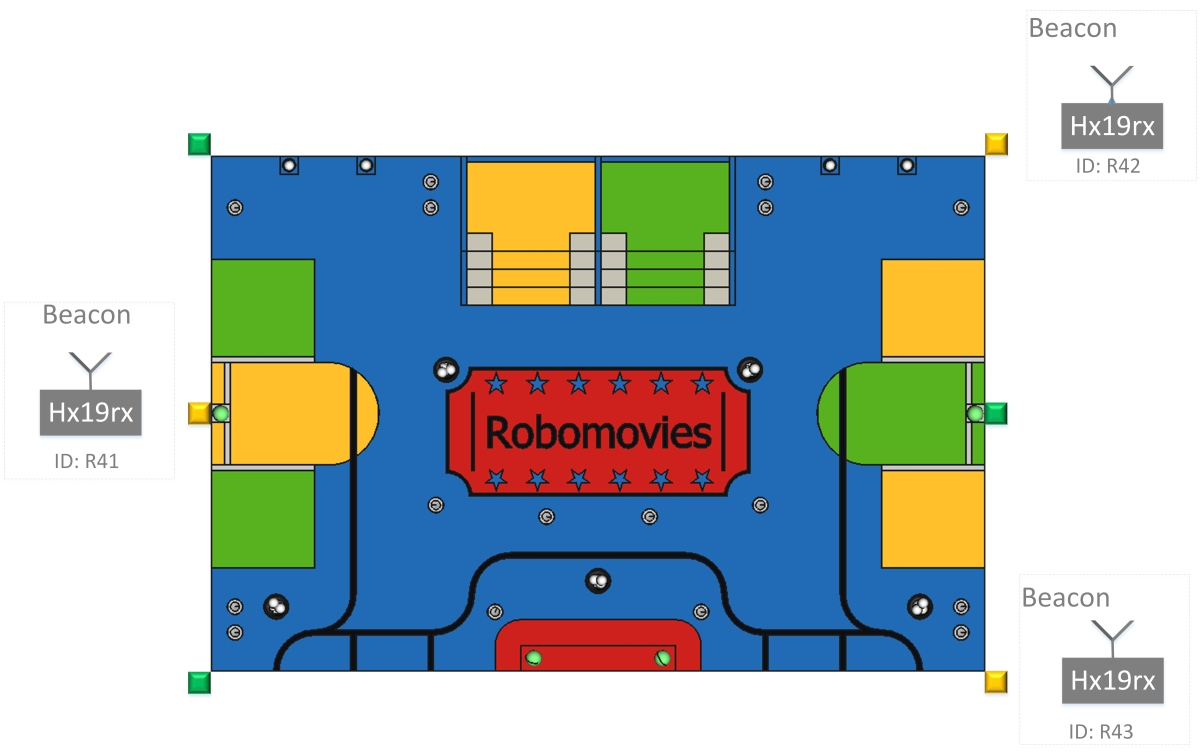
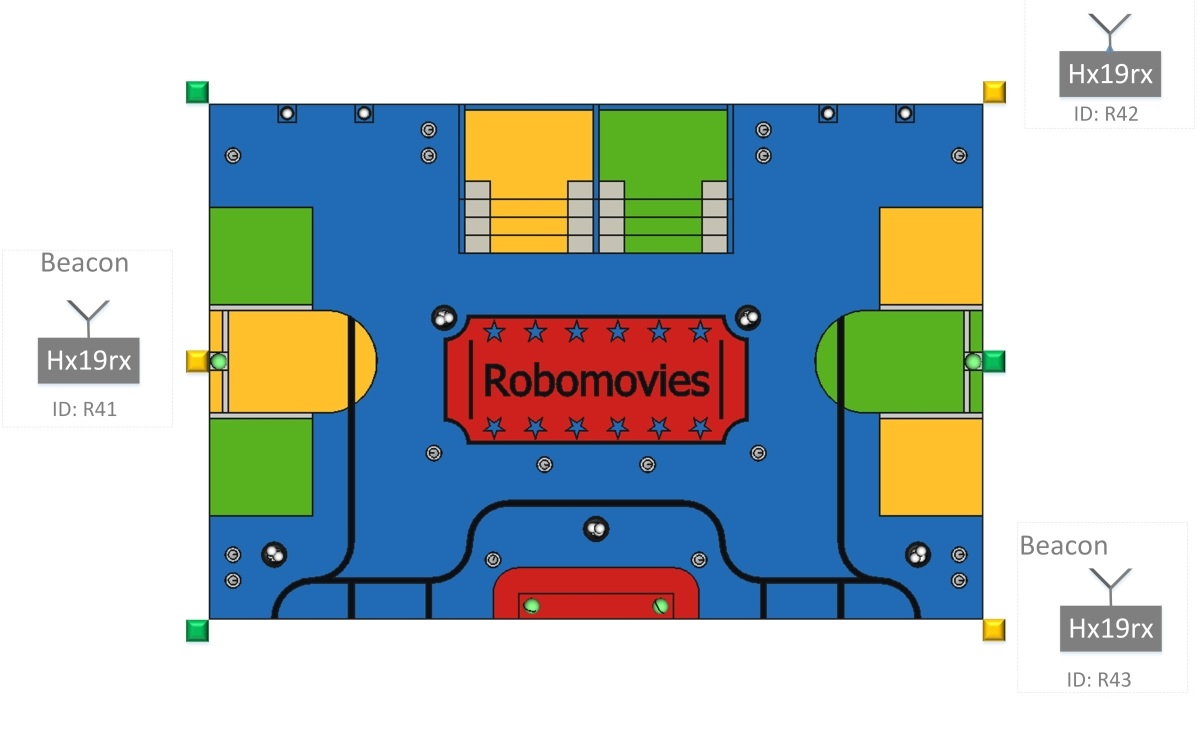
I do not love joel

diff --git a/mainwindow.cpp b/mainwindow.cpp
@@ -563,14 +563,15 @@ void MainWindow::paintEvent(QPaintEvent *e)
     /* prints at every refresh static pictures */
     QPainter painter(this);
     painter.drawPixmap(310, 575 ,30,30,QPixmap(":/it_is.png"));
-    painter.drawPixmap(310,620,30,30,QPixmap(":/it_should_be.jpg"));
+  //  painter.drawPixmap(310,620,30,30,QPixmap(":/it_should_be.jpg"));
+     painter.drawPixmap(0,0,30,30,QPixmap(":/it_should_be.jpg"));
     QMainWindow::paintEvent(e);
 
 
     /* prints initial field at startup */
     if (consoleHasBeenUsed == 0)
     {
-        //painter.drawPixmap(199,60,761,469,QPixmap(":/Map_Left"));
+        painter.drawPixmap(199,60,761,469,QPixmap(":/Map_Left"));
     }
 
     /* if a custom event has been called */
@@ -579,21 +580,23 @@ void MainWindow::paintEvent(QPaintEvent *e)
         /* if the event is called while we have less than MAX_MEASUREMENT_POINTS_PER_SITE */
         if( NumberOfMeasurements <= MAX_MEASUREMENT_POINTS_PER_SITE)
         {
-          //painter.drawPixmap(199,60,761,469,QPixmap(":/Map_Left"));
+          painter.drawPixmap(199,60,761,469,QPixmap(":/Map_Left"));
         }
         else
         {
-           painter.drawPixmap(199,60,761,469,QPixmap(":/Map_Right"));
+          painter.drawPixmap(199,60,761,469,QPixmap(":/Map_Right"));
         }
 
         /* Update graphics data on GUI */
        QPainter painter(this);
-       painter.drawPixmap( OFFSET_X_VALUE_PICTURE_LABEL + (GraphicsXBottomValue / RATIO_PICTURE_TO_COORDINATES), OFFSET_X_VALUE_PICTURE_LABEL + (GraphicsYBottomValue / RATIO_PICTURE_TO_COORDINATES) ,30, 30, QPixmap(":/it_is.png"));
-       painter.drawPixmap(OFFSET_X_VALUE_PICTURE_LABEL + (GraphicsXTopValue / RATIO_PICTURE_TO_COORDINATES) , OFFSET_X_VALUE_PICTURE_LABEL +(GraphicsYTopValue / RATIO_PICTURE_TO_COORDINATES), 30, 30, QPixmap(":/it_is.png"));
+       painter.drawPixmap(OFFSET_GRAPHICS_X + OFFSET_X_INSIDE_PICTURE_TO_GAMEFIELD + OFFSET_X_VALUE_PICTURE_LABEL + (GraphicsXBottomValue / RATIO_PICTURE_TO_COORDINATES_X), (OFFSET_GRAPHICS_Y + OFFSET_Y_INSIDE_PICTURE_TO_GAMEFIELD + OFFSET_Y_VALUE_PICTURE_LABEL) + (GraphicsYBottomValue / RATIO_PICTURE_TO_COORDINATES_Y) ,30, 30, QPixmap(":/it_is.png"));
+       painter.drawPixmap(OFFSET_GRAPHICS_X + OFFSET_X_INSIDE_PICTURE_TO_GAMEFIELD + OFFSET_X_VALUE_PICTURE_LABEL + (GraphicsXTopValue / RATIO_PICTURE_TO_COORDINATES_X) , (OFFSET_GRAPHICS_Y + OFFSET_Y_INSIDE_PICTURE_TO_GAMEFIELD + OFFSET_Y_VALUE_PICTURE_LABEL) +(GraphicsYTopValue / RATIO_PICTURE_TO_COORDINATES_Y), 30, 30, QPixmap(":/it_is.png"));
 
+//         std::cout << (OFFSET_X_INSIDE_PICTURE_TO_GAMEFIELD + OFFSET_X_VALUE_PICTURE_LABEL + (GraphicsXTopValue / RATIO_PICTURE_TO_COORDINATES)) << std::endl;
+//         std::cout << ( OFFSET_X_INSIDE_PICTURE_TO_GAMEFIELD + OFFSET_X_VALUE_PICTURE_LABEL +(GraphicsYTopValue / RATIO_PICTURE_TO_COORDINATES))<< std::endl;
        /* print desired coordinates */
-       painter.drawPixmap(OFFSET_X_VALUE_PICTURE_LABEL + (DesiredValues[NumberOfMeasurements][0] / RATIO_PICTURE_TO_COORDINATES), OFFSET_X_VALUE_PICTURE_LABEL + (DesiredValues[NumberOfMeasurements][1] / RATIO_PICTURE_TO_COORDINATES), 30, 30, QPixmap(":/it_should_be.jpg"));
-       painter.drawPixmap(OFFSET_X_VALUE_PICTURE_LABEL + (DesiredValues[NumberOfMeasurements][2] / RATIO_PICTURE_TO_COORDINATES), OFFSET_X_VALUE_PICTURE_LABEL + (DesiredValues[NumberOfMeasurements][3] / RATIO_PICTURE_TO_COORDINATES), 30, 30, QPixmap(":/it_should_be.jpg"));
+       painter.drawPixmap(OFFSET_GRAPHICS_X + OFFSET_X_INSIDE_PICTURE_TO_GAMEFIELD + OFFSET_X_VALUE_PICTURE_LABEL + (DesiredValues[NumberOfMeasurements][0] / RATIO_PICTURE_TO_COORDINATES_X), OFFSET_GRAPHICS_Y + OFFSET_Y_INSIDE_PICTURE_TO_GAMEFIELD + OFFSET_Y_VALUE_PICTURE_LABEL + (DesiredValues[NumberOfMeasurements][1] / RATIO_PICTURE_TO_COORDINATES_Y), 30, 30, QPixmap(":/it_should_be.jpg"));
+       painter.drawPixmap(OFFSET_GRAPHICS_X + OFFSET_X_INSIDE_PICTURE_TO_GAMEFIELD + OFFSET_X_VALUE_PICTURE_LABEL + (DesiredValues[NumberOfMeasurements][2] / RATIO_PICTURE_TO_COORDINATES_X), OFFSET_GRAPHICS_Y + OFFSET_Y_INSIDE_PICTURE_TO_GAMEFIELD + OFFSET_Y_VALUE_PICTURE_LABEL + (DesiredValues[NumberOfMeasurements][3] / RATIO_PICTURE_TO_COORDINATES_Y), 30, 30, QPixmap(":/it_should_be.jpg"));
 
        /* reset flag for painting*/
        mpaintflag = false;

diff --git a/mainwindow.h b/mainwindow.h
@@ -30,10 +30,16 @@
 #include "CalibrationMeasurement.h"
 #include <globaldefines.h>
 
-#define RATIO_PICTURE_TO_COORDINATES        (4)
-#define OFFSET_X_VALUE_PICTURE_LABEL        (199)
-#define OFFSET_Y_VALUE_PICTURE_LABEL        (60)
+#define RATIO_PICTURE_TO_COORDINATES_X          (6)
+#define RATIO_PICTURE_TO_COORDINATES_Y          (6.7)
+#define OFFSET_X_VALUE_PICTURE_LABEL            (360)
+#define OFFSET_Y_VALUE_PICTURE_LABEL            (155)
 
+#define OFFSET_X_INSIDE_PICTURE_TO_GAMEFIELD    (0)
+#define OFFSET_Y_INSIDE_PICTURE_TO_GAMEFIELD    (0)
+
+#define OFFSET_GRAPHICS_X                         (-30)
+#define OFFSET_GRAPHICS_Y                         (-30)
 namespace Ui {
 class MainWindow;
 }
